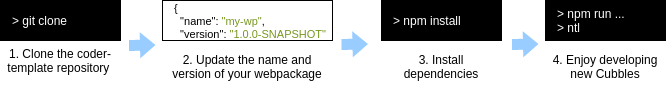
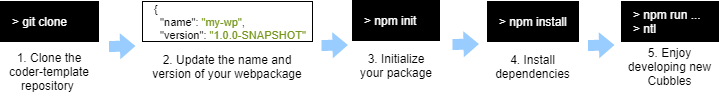
#30 Fix documentation (use npm init)

diff --git a/developing-vanilla-boilerplate/creating-project.md b/developing-vanilla-boilerplate/creating-project.md
@@ -16,9 +16,9 @@ After that, you should have a folder structure like the one below:
 
 ![vanilla boilerplate folder structure](../.gitbook/assets/vanilla-boilerplate-folder-structure.png)
 
-## Boilerplate content
+### Boilerplate content
 
-### The 'src' folder
+#### The 'src' folder
 
 In the root of the project, you can find a 'src' folder that contains the source code of the developed artifacts. Also, this folder contains the config files required by webpack to build a distribution version that follows the structure of a [Cubbles webpackage](../terms-and-concepts/webpackage.md).
 
@@ -36,25 +36,25 @@ The vanilla boilerplate includes three folders containing sample [artifacts](../
 
 The MANIFEST definition of each artifact in the 'src' folder will be joint to produce a single valid [Cubbles webpackage manifest](http://cubbles.github.io/cubx-webpackage-document-api/schema-explorer.html?schemaPath=master/lib/jsonSchema/manifestWebpackage-10.0.0.schema.json). The final manifest will be bundled by *webpack* in a 'dist' folder after building the project.
 
-### The 'package.json' file
+#### The 'package.json' file
 
 This is a common npm package definition file. It contains the required dependencies to develop, build, validate and upload Cubbles artifacts. Those tasks can be carried out running the scripts listed in the file using [ntl](https://www.npmjs.com/package/ntl) or simply running the command 'npm run [script-name]'.
 
-### The upload config files
+#### The upload config files
 
 Additionally, there are two upload config files (i.e., 'cubx-uploader-config.json' and 'cubx-uploader-config.dev.json'), one to upload the *production* version of the built webpackage and the other one to upload the *development* version.
 
 In those files, you can define the *url* and *proxy* (if any) of the [base](../terms-and-concepts/base.md) where you desire to upload the webpackage.
 
-### Other config files
+#### Other config files
 
 Also, the root folder contains common config files such as *.gitignore* and *.eslintrc*.
 
-## Renaming your local webpackage
+## Initiliazing your package
 
-Now, you need to rename your package, otherwise when you try, for instance, to upload it a webpackage called *cubbles-vanilla-boilerplate* will be uploaded. So, you should open the 'package.json' file and change the name property as desired. Also, you may want to change the version property.
+Now, you need to initilize your package using the `npm init` command.
 
-In our case, the name for the package will be 'my-first-ct-project'.
+> Remember that the name of the package will be used to generate the `webpackageId` of your webpackage. Which in the sample case would be `my-first-ct-project`.
 
 ## Running 'npm install'
 
